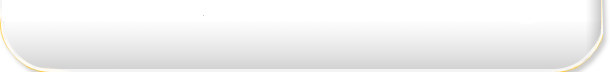
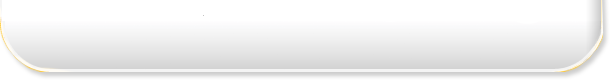
sc in layout

Changed region(s): [[0.0, 0.3889, 0.9967, 1.0]]

diff --git a/public/stylesheets/application.css b/public/stylesheets/application.css
@@ -17,36 +17,24 @@ display: table; width:auto; margin: 0px auto;
 }
 
 
-#ban {
-display: table-cell;
-margin: 0px auto;
+#left_right_span{
+margin:0px auto;
+height:329px;
+background-image:url('/images/koziolkowo/zp.png');
+background-repeat:repeat-x;
+}
+#ban{
+margin:0px auto; 
+height:329px; 
 width: 893px;
-height: 329px;
 background-image:url('/images/koziolkowo/ban.png');
 background-repeat:no-repeat;
 }
-#left_span{
-display:table-cell;
-float:right;
-margin: 0px -1px 14px 0px;
-width:195px;
-height:104px;
-background-image:url('/images/koziolkowo/zppt.png');
-background-repeat:repeat-x;
-}
-#right_span{
-display:table-cell;
-float:right;
-margin: 0px 0px 14px 0px;
-width:195px;
-height:104px;
-background-image:url('/images/koziolkowo/zlpt.png');
-background-repeat:repeat-x;
-}
+
 #content_box{
 /* width: 880px; */
 width: auto;
-margin: -15px auto 15px auto;
+margin: -15px auto 3px auto;
 background-image:url('/images/koziolkowo/p_element.png');
 background-repeat:repeat;
 }
@@ -64,6 +52,9 @@ float:left;
 background-image:url('/images/koziolkowo/content_tlo.png');
 background-repeat:repeat-y;
 }
+#content_data{
+margin: 20px 20px -27px 20px;
+}
 #content_inside{
 width: 905px;
 margin: 0px auto;
@@ -71,18 +62,58 @@ margin: 0px auto;
 #content_footer{
 margin: 0px 0px 0px 294px;
 width: 610px;
-height: 72px;
+height: 80px;
 background-image:url('/images/koziolkowo/content_footer.png');
 background-repeat:none;
-
+}
+#content_marker{
+margin: 20px 30px 0px 0px;
+display:inline;
+float:right;
+width: 217px;
+height: 49px;
+background-image:url('../images/koziolkowo/content_picture_footer.png');
+background-repeat:none;
 }
 
 #footer {
 width: auto;
-height: 100px;
+height: 61px;
 background-image:url('/images/koziolkowo/footer_background.png');
 background-repeat:repeat-x;
 }
+#footer_content{
+margin: 0px auto;
+padding: 20px 0px 0px 0px;
+width: 894px;
+height: 41px;
+}
+#loga{
+margin: -12px 0px 0px 0px;
+display:inline;
+float:right;
+width: 521px;
+height: 43px;
+background-image:url('/images/koziolkowo/loga.png');
+background-repeat:none;
+
+}
+/* articles*/
+#first_article_title{
+width: 547px;
+height: 37px;
+background-image:url('/images/koziolkowo/title_content_marker.png');
+background-repeat:none;
+}
+#first_article_title p{
+margin: 0px 0px 0px 40px;
+color: #db1500;
+line-height: 40px;
+font-size: x-large;
+}
+#article_title{
+}
+/* end articles */
 
 /* end */
 
@@ -92,8 +123,36 @@ background-repeat:repeat-x;
 
 
 /* admin login */
-#admin_login{margin: 200px auto; width: 400px; border: 1px solid black; padding: 10px;border-radius: 20px;-moz-border-radius: 5px;background-color:#BFD6FF;}
+#admin_login{margin: 20px auto; 
+width: 400px; 
+border: 1px solid black; 
+padding: 10px;border-radius: 20px;-moz-border-radius: 5px;
+background-color:#BFD6FF;}
 /* end admin login */
+
+
+
+
+
+
+
+
+
+
+
+
+
+
+
+
+
+
+
+
+
+
+
+
 
 
 

diff --git a/app/controllers/admin/menus_controller.rb b/app/controllers/admin/menus_controller.rb
@@ -1,12 +1,7 @@
 class Admin::MenusController < AdminController
   
   def index
-#    @articles = Article.all
-@articles = Article.show_menu_list
-#    @articles = show_menu_list
-#    @articles = Article.show_like_menu_list
-#@articles = Article.all.group_by(&:menu)
-
+    @articles = Article.show_menu_list
   end
   
   def edit

diff --git a/app/controllers/articles_controller.rb b/app/controllers/articles_controller.rb
@@ -1,8 +1,9 @@
 class ArticlesController < ApplicationController
 
-  caches_page :show
+#  caches_page :show
   
   def show
+    @menu = Article.show_menu_list
     @article = Article.find(params[:id])
     @tags = @article.tag
   end

diff --git a/app/controllers/home_controller.rb b/app/controllers/home_controller.rb
@@ -2,6 +2,7 @@ class HomeController < ApplicationController
  # caches_page :index
   
   def index
+    @menu = Article.show_menu_list
     @articles = Article.show_publish
     @newsuser = Newsuser.new
   end

diff --git a/app/controllers/user_sessions_controller.rb b/app/controllers/user_sessions_controller.rb
@@ -3,6 +3,8 @@ class UserSessionsController < ApplicationController
 
   def new
     @user_session = UserSession.new
+    @menu = Article.show_menu_list
+
   end
   
   def create
